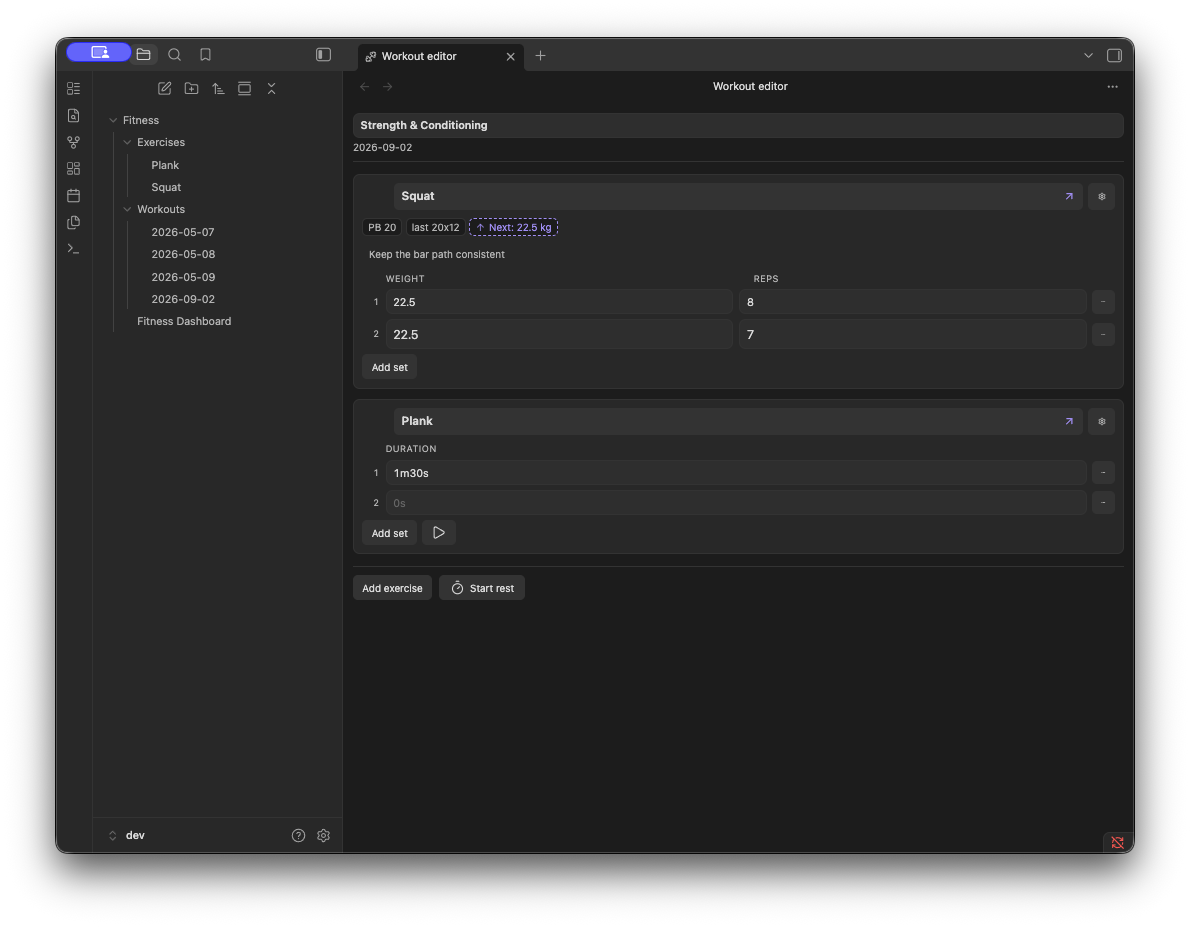
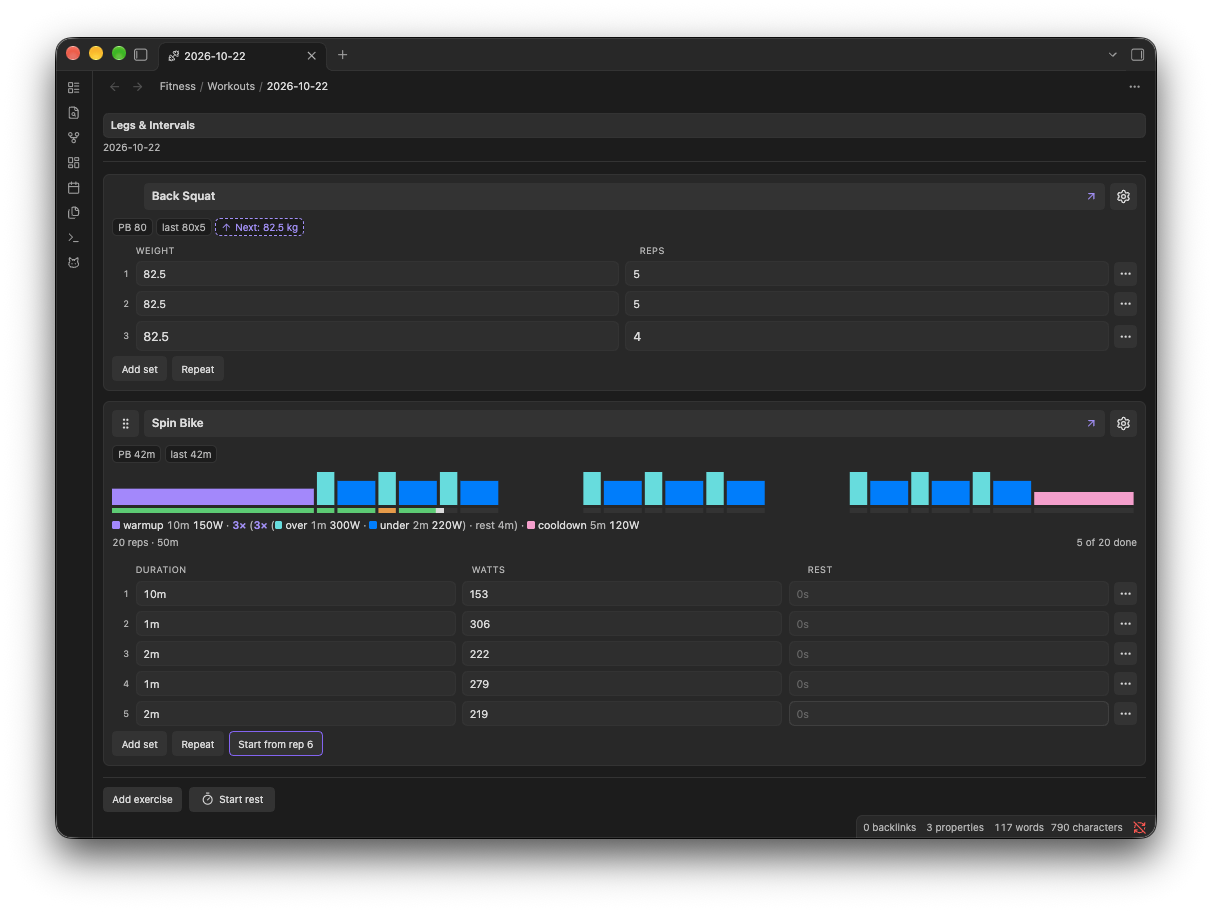
docs(interval): Show interval cards, the plan form and the runner in screenshots
- Retake the workout editor screenshot with a strength card and an interval card
- Add phone screenshots of an interval card and the runner, and a plan form screenshot
- Embed the phone pair in the README and the plan form and runner in the interval guide

diff --git a/README.md b/README.md
@@ -22,7 +22,7 @@ For beta builds with BRAT or a manual install from a GitHub release, see [Instal
 
 The defaults are designed so you can log a workout the moment FitKit is enabled. No setup is required.
 
-![Workout editor with a strength card, a duration card, and the rest timer](docs/images/workout-editor.png)
+![Workout editor with a strength card and an interval card part way through its plan](docs/images/workout-editor.png)
 
 1. Run `Open today's workout` from the command palette. FitKit creates today's note under `Fitness/Workouts/` and opens it in the editor.
 2. Add an exercise. Type the name, for example `Squat`. If it is new, FitKit asks whether to create an exercise note for it; say yes for anything you want to chart and revisit later.
@@ -53,7 +53,11 @@ name: Squat Day
 
 For timed sessions such as Tabata, over-unders or EMOMs, switch a duration card to interval with `Change type...` in the card menu. The plan form opens with common sessions to start from, or you can build your own from steps, rests and repeats, with a watts, load or level target on each step.
 
-`Start` then takes over the tab with a big clock: it counts each step down, beeps the last three seconds, and writes every rep to the note as it finishes, with the time you did and the intensity you held. The plan and the rows are plain inline fields too:
+`Start` then takes over the tab with a big clock: it counts each step down, beeps the last three seconds, and writes every rep to the note as it finishes, with the time you did and the intensity you held.
+
+![An interval card on a phone with its plan profile and logged reps, beside the runner counting down an over step](docs/images/interval-mobile.png)
+
+The plan and the rows are plain inline fields too:
 
 ```markdown
 ## [[Indoor Bike]]

diff --git a/docs/interval-training.md b/docs/interval-training.md
@@ -23,6 +23,8 @@ To go back, `Switch to duration` under `Change type...` keeps the logged rows an
 
 The plan form opens from `Switch to interval`, from `Edit interval plan` in the card menu, or by tapping the plan on the card. From top to bottom it holds the presets, the plan itself, a preview, and the `Save` bar.
 
+![The plan form in Steps, holding over-unders as a warm-up, two nested repeats and a cool-down](images/interval-plan-form.png)
+
 ### Starting from a preset
 
 `Start from` fills the plan with a common session in one tap: Tabata, EMOM, over-unders, a pyramid, 30/30 and Norwegian 4x4. The list is yours to change under `Interval presets` in [Settings](settings.md), and clearing it hides `Start from`.
@@ -163,6 +165,8 @@ Once it has a plan, the card shows it above the rows:
 Tap any of it to edit the plan. The rows gain intensity and rest columns, and `Add set` and `Repeat` carry both forward, so a session done without the runner can still be logged by hand.
 
 ## Running a plan
+
+![The runner on a phone, counting down an over step with its target, round, next step and rep dots](images/interval-runner.png)
 
 An interval card swaps the play button for `Start`, which reads `Start from rep N` once some reps are done. A row with no work time and no rest is not done, even with watts or a note typed in it, so the run starts on it and keeps what was typed. `Start` takes over the tab:
 
